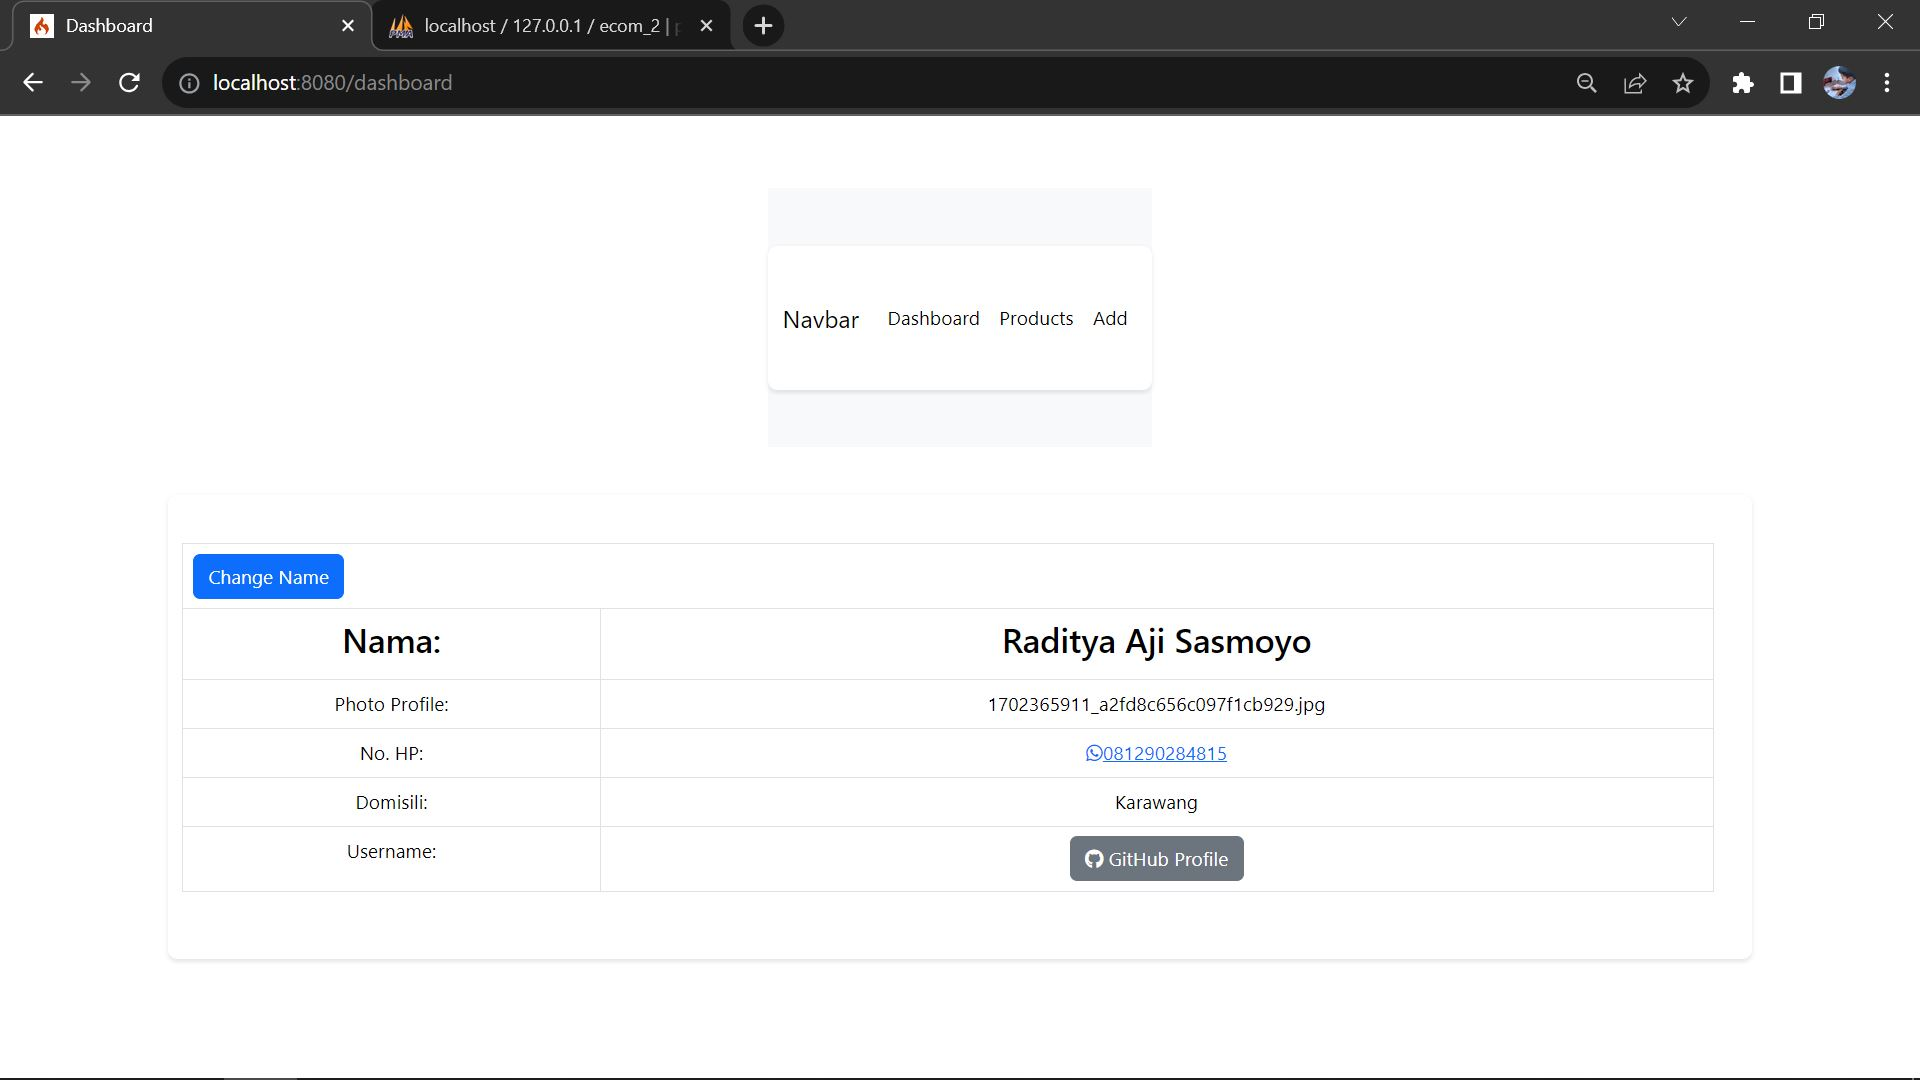
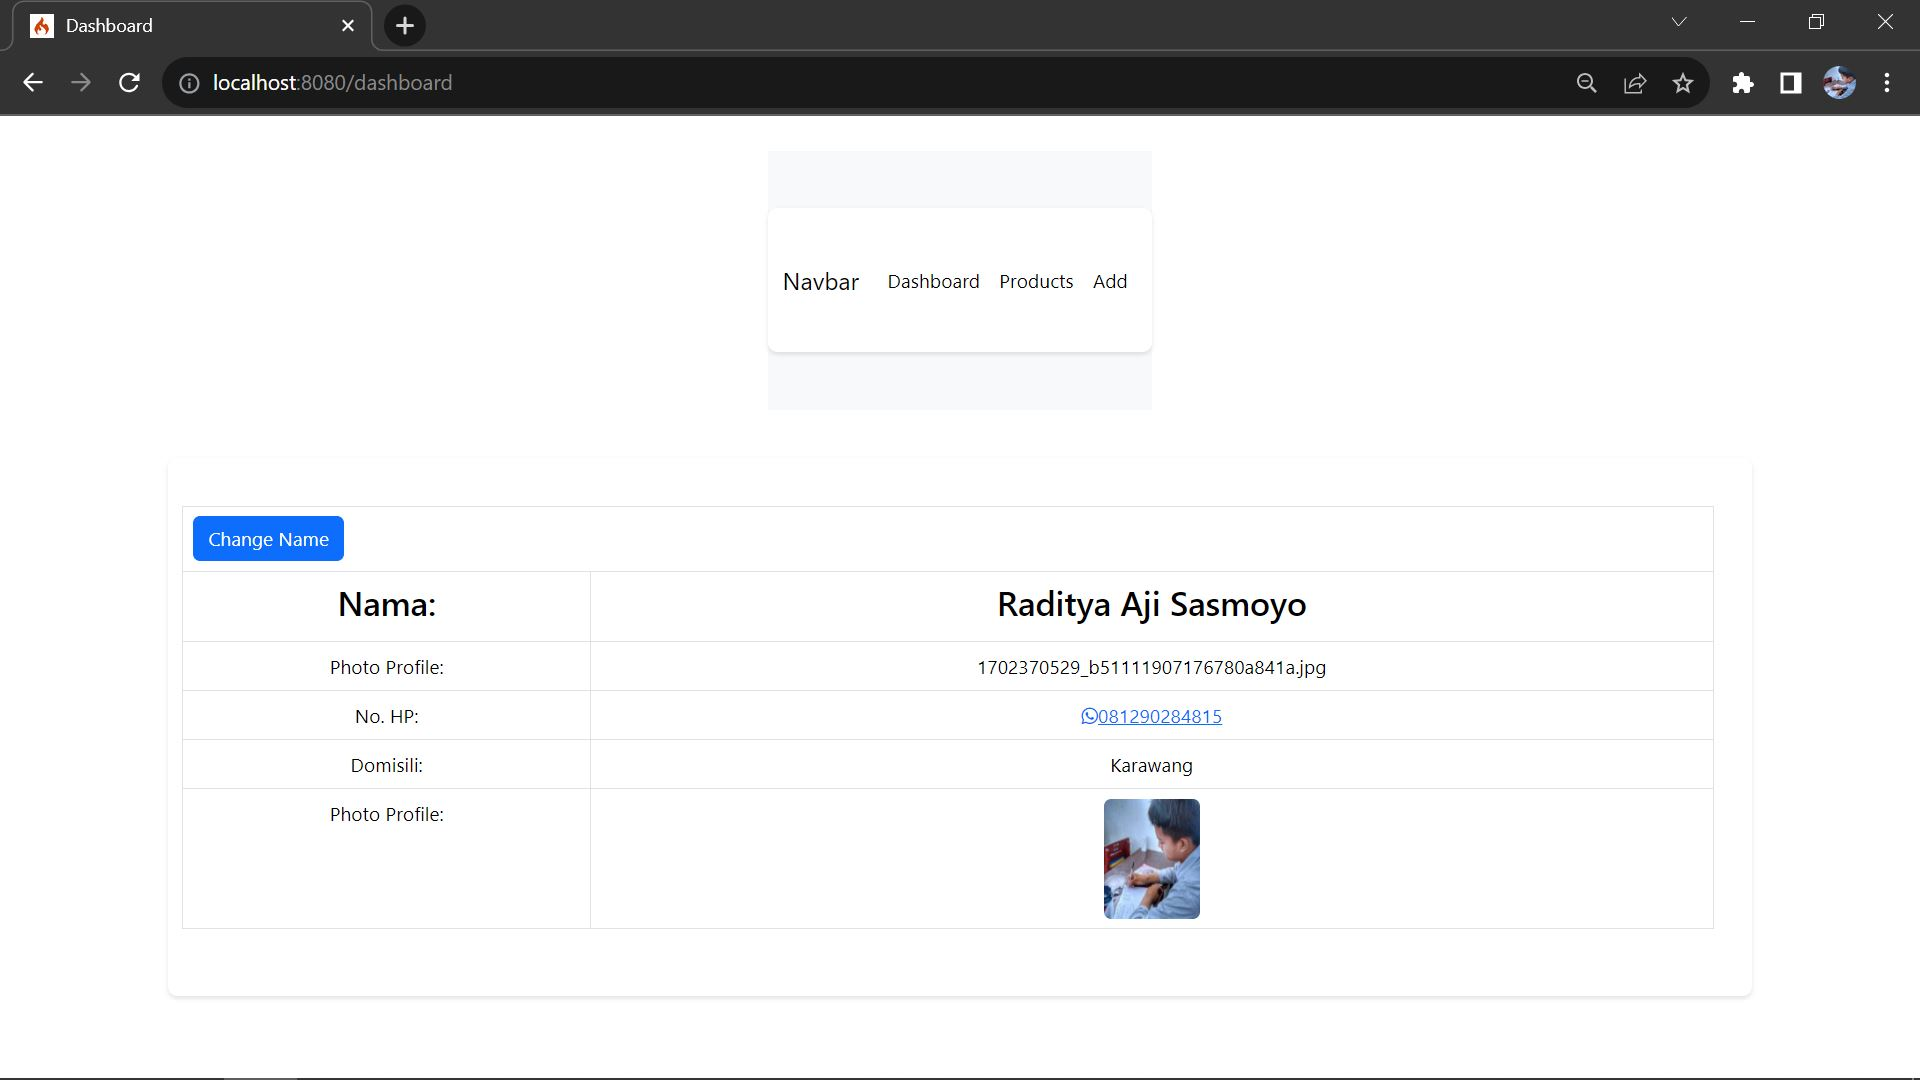
kelompok 1

diff --git a/app/Views/products/detail.php b/app/Views/products/detail.php
@@ -10,9 +10,14 @@
       <h3 class="d-inline-block"><?= $products["title"]; ?></h3>
     </div>
     <div class="mt-5">
+      <h3 style="width:200px;" class="d-inline-block">Gambar</h3>
+      <span class="d-inline-block mx-3">:</span>
+	  <img src="<?= base_url("image/" . $products['image']); ?>" class="img-fluid rounded" style="width:80px; height:100px;" alt="">
+    </div>
+    <div class="mt-5">
       <h3 style="width:200px;" class="d-inline-block">Harga</h3>
       <span class="d-inline-block mx-3">:</span>
-      <h3 class="d-inline-block"><?= $products["price"]; ?></h3>
+      <h3 class="d-inline-block">Rp. <?= $products["price"]; ?></h3>
     </div>
     <div class="mt-5">
       <h3 style="width:200px;" class="d-inline-block">Jumlah</h3>

diff --git a/app/Controllers/ProductsController.php b/app/Controllers/ProductsController.php
@@ -110,8 +110,16 @@ class ProductsController extends BaseController {
 	}
 	public function detail($id) {
 		$products = $this->productsModel->getDetailProducts($id);
-		$customers = $this->customersModel->getDetailCustomers($id);
-		$data = ["title" => "Order Detail","products" => $products,"customers" => $customers];
+		$customerId = ($id == 1) ? $id : 1;
+		$customer = $this->customersModel->getDetailCustomers($customerId);
+		$name = $customer['name'];
+		$phoneNumber = $customer['phoneNumber'];
+		$address = $customer['address'];
+		$data = [
+			"title" => "Order Detail","products" => $products,
+			"customers" => ['name' => $name,'phoneNumber' => $phoneNumber,'address' => $address],
+		];
 		return view('products/detail', $data);
 	}
+
 }

diff --git a/app/Views/products/index.php b/app/Views/products/index.php
@@ -25,6 +25,7 @@
         <th scope="col">Title</th>
         <th scope="col">Category</th>
         <th scope="col">Harga</th>
+        <th scope="col">Jumlah</th>
         <th scope="col">Action</th>
       </tr>
     </thead>
@@ -37,6 +38,7 @@
           <td><?= $p["title"]; ?></td>
           <td><?= $p["category"]; ?></td>
           <td><?= $p["price"]; ?></td>
+          <td><?= $p["quantity"]; ?></td>
           <td>
             <a href="<?= site_url("products/destroy/" . $p["id"]); ?>" class="btn btn-danger btn-sm">Delete</a>
             <a href="<?= site_url("products/update/" . $p["id"]); ?>" class="btn btn-primary btn-sm">Update</a>

diff --git a/app/Views/customers/index.php b/app/Views/customers/index.php
@@ -40,13 +40,17 @@
 				<td>Domisili:</td>
 				<td><?= $p["address"]; ?></td>
 			</tr>
-			<tr>
+			<!--<tr>
 				<td>Username:</td>
-				<td><?= $p["username"]; ?>
+				<td><?//= $p["username"]; ?>
 					<a href="https://github.com/raditya2010631170111" target="_blank" class="btn btn-secondary">
 						<i class="fab fa-github"></i> GitHub Profile
 					</a>
 				</td>
+			</tr>-->
+			<tr>
+				<td>Photo Profile:</td>
+				<td><img src="<?= base_url("image/" . $p['image']); ?>" class="img-fluid rounded" style="width:80px; height:100px;" alt=""></td>
 			</tr>
 		</table>
       <?php endforeach; ?>

diff --git a/app/Models/CustomersModel.php b/app/Models/CustomersModel.php
@@ -15,4 +15,7 @@ class CustomersModel extends Model {
 	public function getDetailCustomers($id){
 		return $this->find($id);
 	}
+	public function getDetailCustomers1($id = 1){
+		return $this->find($id);
+	}
 }
